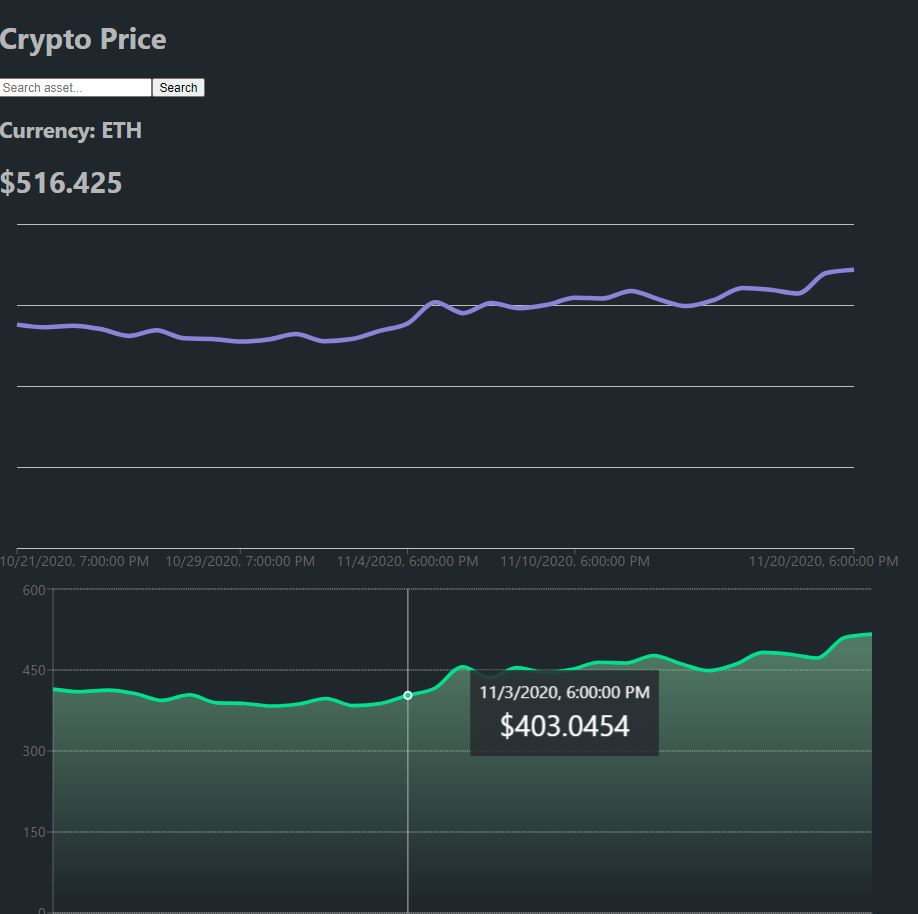
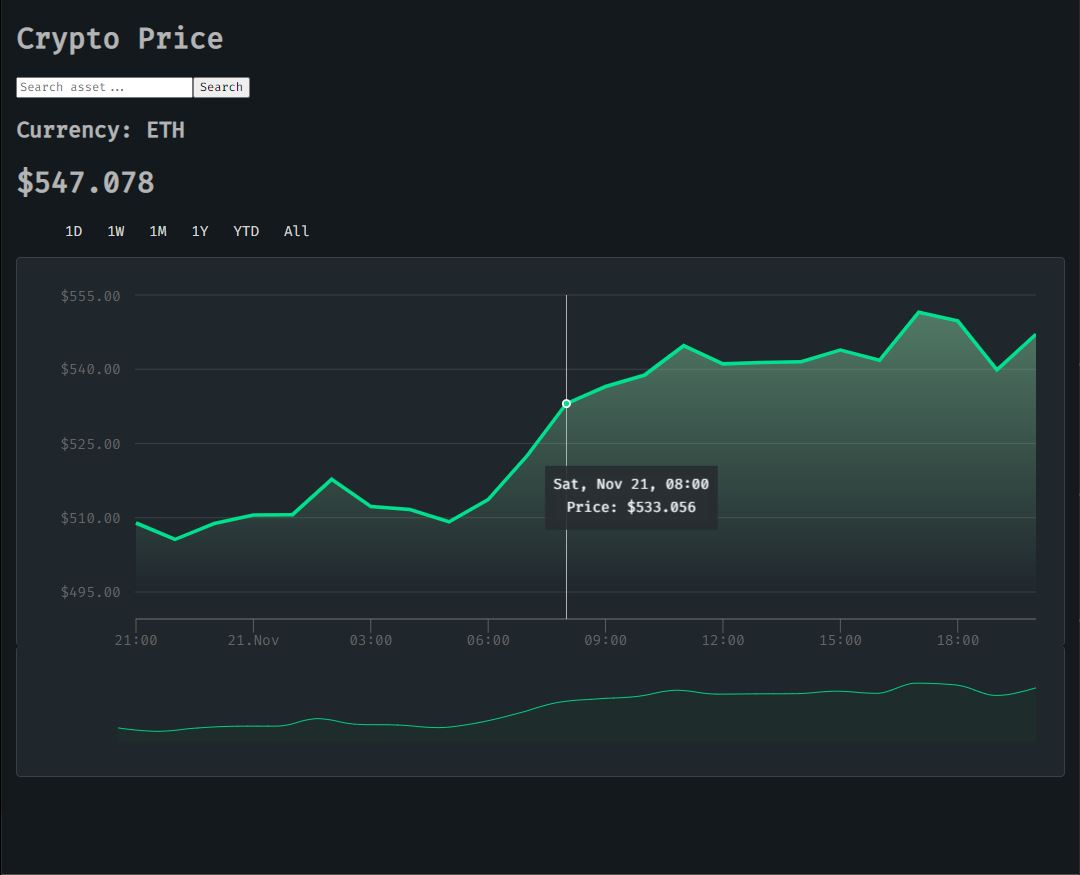
edited styles of the page, added timeframe options, added secondary chart, and label contents of the axises

diff --git a/src/API.js b/src/API.js
@@ -61,7 +61,8 @@ const API = () => {
   let chartData = [];
   rate.forEach((each, i) => {
     chartData.push({
-      timestamp: new Date(timestamp[i]).toLocaleString(),
+      // timestamp: new Date(timestamp[i]).toLocaleString(),
+      timestamp: timestamp[i],
       rate: (each * 1).toFixed(3),
     });
   });
@@ -96,6 +97,7 @@ const API = () => {
         placeholder='Search asset...'
       />
       <button onClick={handleSubmit}>Search</button>
+
       <h2>Currency: {searchField}</h2>
 
       {chartData.length > 0 && (
@@ -104,8 +106,19 @@ const API = () => {
         </h1>
       )}
 
-      <div className='chart-container'>
-        {/* Area Chart */}
+      <div className='timeframe'>
+        <ul className='timeframe-options'>
+          <li>1D</li>
+          <li>1W</li>
+          <li>1M</li>
+          <li>1Y</li>
+          <li>YTD</li>
+          <li>All</li>
+        </ul>
+      </div>
+
+      <div className='chart-container-main'>
+        {/* MAIN CHART */}
         <AreaChart
           width={1100}
           height={400}
@@ -114,33 +127,58 @@ const API = () => {
         >
           <defs>
             <linearGradient id='colorPv' x1='0' y1='0' x2='0' y2='1'>
-              <stop offset='5%' stopColor='#82ca9d' stopOpacity={0.5} />
-              <stop offset='95%' stopColor='#82ca9d' stopOpacity={0} />
+              <stop offset='0%' stopColor='#82ca9d' stopOpacity={0.5} />
+              <stop offset='100%' stopColor='#82ca9d' stopOpacity={0} />
             </linearGradient>
           </defs>
-          <XAxis dataKey='timestamp' />
+          <XAxis
+            dataKey='timestamp'
+            interval={2}
+            tickSize={15}
+            tickFormatter={(value) => {
+              const dateInfo = new Date(value).toString().split(' ');
+              let month = dateInfo[1];
+              let date = dateInfo[2];
+              let time = dateInfo[4].split(':');
+              return time[0] === '00'
+                ? `${date}.${month}`
+                : `${time[0]}:${time[1]}`;
+            }}
+          />
           <YAxis
+            minTickGap={5}
+            tickSize={15}
+            tickLine={false}
             tickFormatter={(value) => {
               return usdFormat.format(value);
             }}
             dataKey='rate'
+            axisLine={false}
             domain={['dataMin-5', 'auto']}
-            // padding={{ bottom: 10 }}
+            padding={{ bottom: 30 }}
           />
-          <CartesianGrid strokeDasharray='1 1' vertical={false} />
+          <CartesianGrid strokeDasharray='0.2' vertical={false} />
           <Tooltip
             formatter={(value) => {
               return usdFormat.format(value);
             }}
+            labelFormatter={(value) => {
+              const dateInfo = new Date(value).toString().split(' ');
+              let day = dateInfo[0];
+              let month = dateInfo[1];
+              let date = dateInfo[2];
+              let time = dateInfo[4].split(':');
+              return `${day}, ${month} ${date}, ${time[0]}:${time[1]} `;
+            }}
             labelStyle={{
               textAlign: 'center',
-              fontSize: '1.2rem',
+              fontSize: '1rem',
               color: 'white',
               backgroundColor: '#2c303371',
             }}
             contentStyle={{
               textAlign: 'center',
-              fontSize: '2rem',
+              fontSize: '1rem',
               backgroundColor: '#2c303371',
               border: 'none',
             }}
@@ -154,9 +192,9 @@ const API = () => {
             separator=''
           />
           <Area
-            type='monotone'
+            // type='monotone'
             dataKey='rate'
-            name=' '
+            name='Price: '
             stroke='#00E08E'
             strokeWidth='4'
             fillOpacity={1}
@@ -164,6 +202,32 @@ const API = () => {
           />
         </AreaChart>
       </div>
+
+      {/* SECONDARY CHART */}
+      <div className='chart-container-secondary'>
+        <AreaChart
+          className='secondary-chart'
+          width={1100}
+          height={80}
+          data={chartData}
+          margin={{
+            top: 5,
+            right: 0,
+            left: 80,
+            bottom: 5,
+          }}
+        >
+          <Area
+            type='monotone'
+            dataKey='rate'
+            stroke='#00E08E'
+            fill='#82ca9e50'
+            fill='#1d442c50 '
+          />
+          <YAxis hide={true} domain={['auto', 'auto']} />
+        </AreaChart>
+      </div>
+
       {/* Old Line Chart */}
       {/* <LineChart
         width={1000}

diff --git a/src/index.css b/src/index.css
@@ -1,9 +1,10 @@
 * {
+  font-family: 'Fira Code', monospace;
 }
 body {
-  margin: 0;
+  margin: 0 1rem;
   font-family: -apple-system, BlinkMacSystemFont, 'Segoe UI', 'Roboto', 'Oxygen',
-    'Ubuntu', 'Cantarell', 'Fira Sans', 'Droid Sans', 'Helvetica Neue',
+    'Ubuntu', 'Cantarell', 'Fira Code', 'Droid Sans', 'Helvetica Neue',
     sans-serif;
   -webkit-font-smoothing: antialiased;
   -moz-osx-font-smoothing: grayscale;
@@ -17,13 +18,44 @@ code {
     monospace;
 }
 
-.chart-container {
+.chart-container-main {
   border: 1px solid #75757550;
   border-radius: 5px;
+  border-bottom: none;
+  display: flex;
+  justify-content: center;
+  background-color: #1f272c;
+  padding: 2rem 0 0 0;
+}
+.chart-container > * {
+  padding: 3rem;
+}
+
+.chart-container-secondary {
+  padding: 2rem 0;
+  border: 1px solid #75757550;
+  border-radius: 5px;
+  border-top: none;
   display: flex;
   justify-content: center;
   background-color: #1f272c;
 }
-.chart-container > * {
-  padding: 3rem;
+
+.timeframe-options {
+  width: 300px;
+  display: flex;
+  flex-direction: row;
+  justify-content: space-around;
+}
+
+.timeframe-options > li {
+  color: #d6d6d6;
+  padding: 0.1rem 0.5rem;
+  list-style-type: none;
+  border-radius: 10%;
+}
+
+.timeframe-options > li:hover {
+  cursor: pointer;
+  background-color: #1f272c;
 }

diff --git a/public/index.html b/public/index.html
@@ -15,6 +15,11 @@
       user's mobile device or desktop. See https://developers.google.com/web/fundamentals/web-app-manifest/
     -->
     <link rel="manifest" href="%PUBLIC_URL%/manifest.json" />
+    <link rel="preconnect" href="https://fonts.gstatic.com" />
+    <link
+      href="https://fonts.googleapis.com/css2?family=Fira+Code&display=swap"
+      rel="stylesheet"
+    />
     <!--
       Notice the use of %PUBLIC_URL% in the tags above.
       It will be replaced with the URL of the `public` folder during the build.
